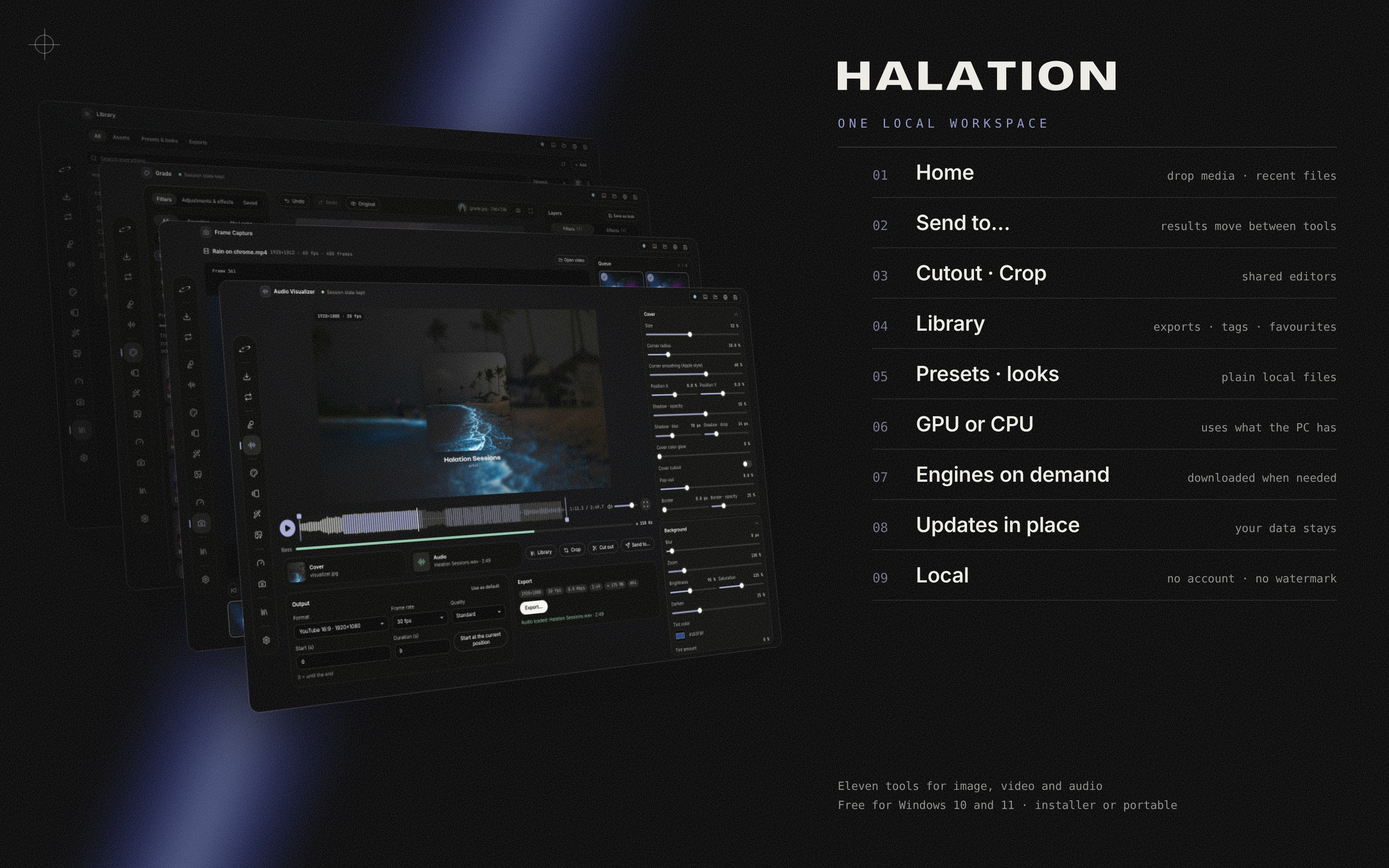
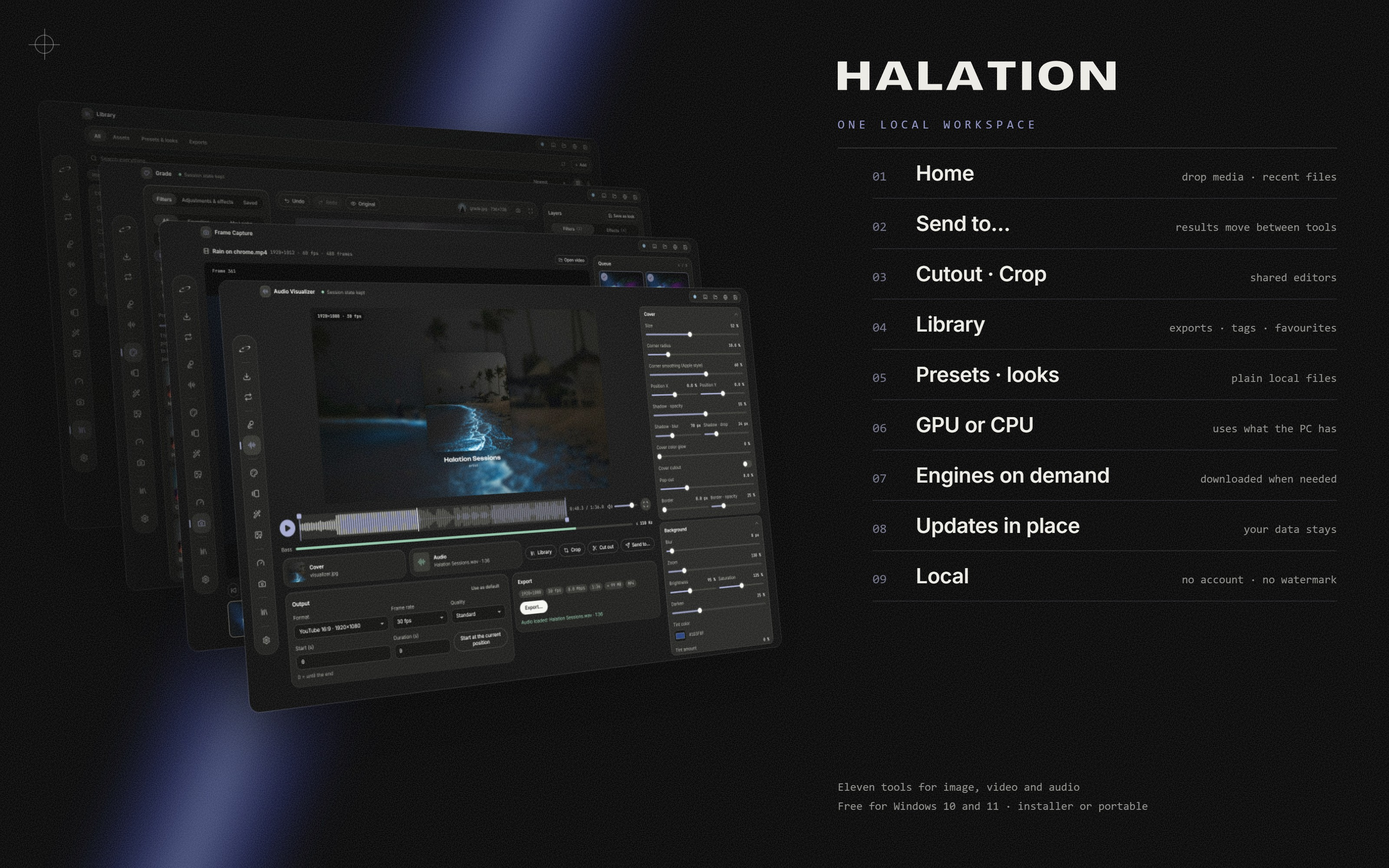
README showcase and promo in the new palette
The showcase tiles and cards take the reworked surfaces (#1a1a19 bubbles, #232321 cards, the .11 border); both images rebuilt from the new captures.

diff --git a/app/scripts/readme-showcase.js b/app/scripts/readme-showcase.js
@@ -43,7 +43,7 @@ const page = (W, H, body, css) => `<!doctype html><meta charset="utf-8"><style>
 header{position:absolute;left:64px;right:64px;top:50px;display:flex;align-items:center;gap:22px}
 header img{width:96px}h1{font-size:44px;font-weight:650;letter-spacing:-.015em}
 header p{margin-left:auto;font-size:21px;color:#b5b5af;text-align:right;line-height:1.45}
-.tile{position:relative;border-radius:18px;overflow:hidden;border:1px solid rgba(255,255,255,.10);background:#050504;box-shadow:0 24px 50px rgba(0,0,0,.5)}
+.tile{position:relative;border-radius:18px;overflow:hidden;border:1px solid rgba(255,255,250,.12);background:#232321;box-shadow:0 24px 50px rgba(0,0,0,.5)}
 .label{display:grid;grid-template-columns:30px 1fr;column-gap:10px;align-items:center}
 .label svg{width:24px;height:24px;stroke:#a3a8dc;fill:none;stroke-width:2;stroke-linecap:round;stroke-linejoin:round}
 .label b{font-weight:600}.label span{grid-column:1/3;margin-top:4px;color:#b5b5af;line-height:1.35}
@@ -98,7 +98,7 @@ function showcase() {
     `<div class="grid">${cards}<div class="tile card more"><b>Send to…</b><span>Results move between tools without leaving the app. Heavy engines download only when a tool needs them.</span></div></div>`;
   return [W, H, page(W, H, body, `
 .grid{position:absolute;left:64px;right:64px;top:166px;display:grid;grid-template-columns:repeat(4,1fr);gap:20px}
-.card{background:rgba(11,11,10,.85)}.thumb{height:200px;border-bottom:1px solid rgba(255,255,255,.07)}
+.card{background:rgba(42,42,40,.94)}.thumb{height:200px;border-bottom:1px solid rgba(255,255,250,.11)}
 .card .label{padding:16px 18px 20px}.card .label b{font-size:23px}.card .label span{font-size:17.5px}
 .more{display:flex;flex-direction:column;justify-content:center;gap:12px;padding:26px;background:rgba(163,168,220,.10);border-color:rgba(163,168,220,.35)}
 .more b{font-size:26px;font-weight:600}.more span{font-size:19px;color:#d7d7d2;line-height:1.5}`)];
